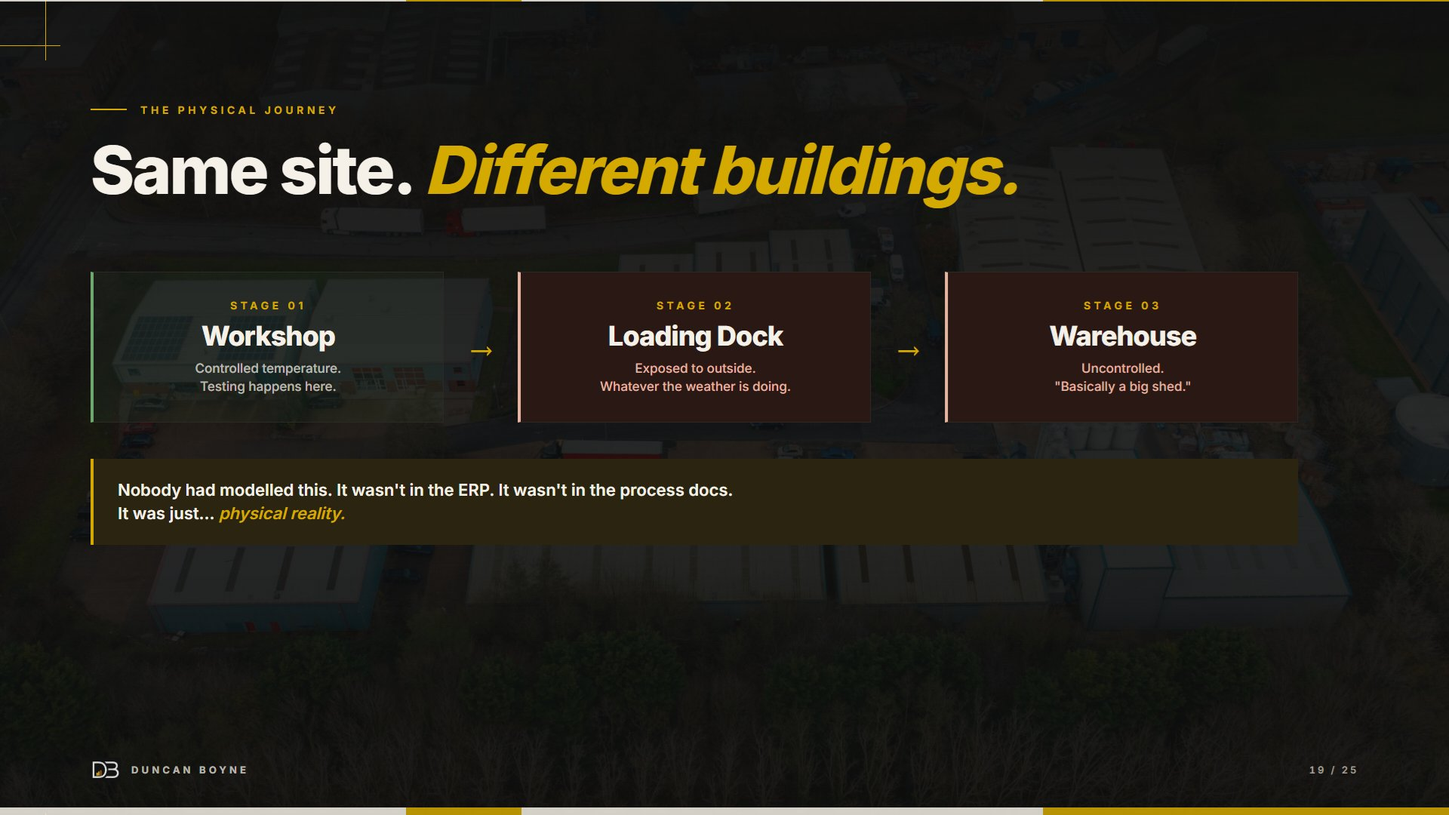
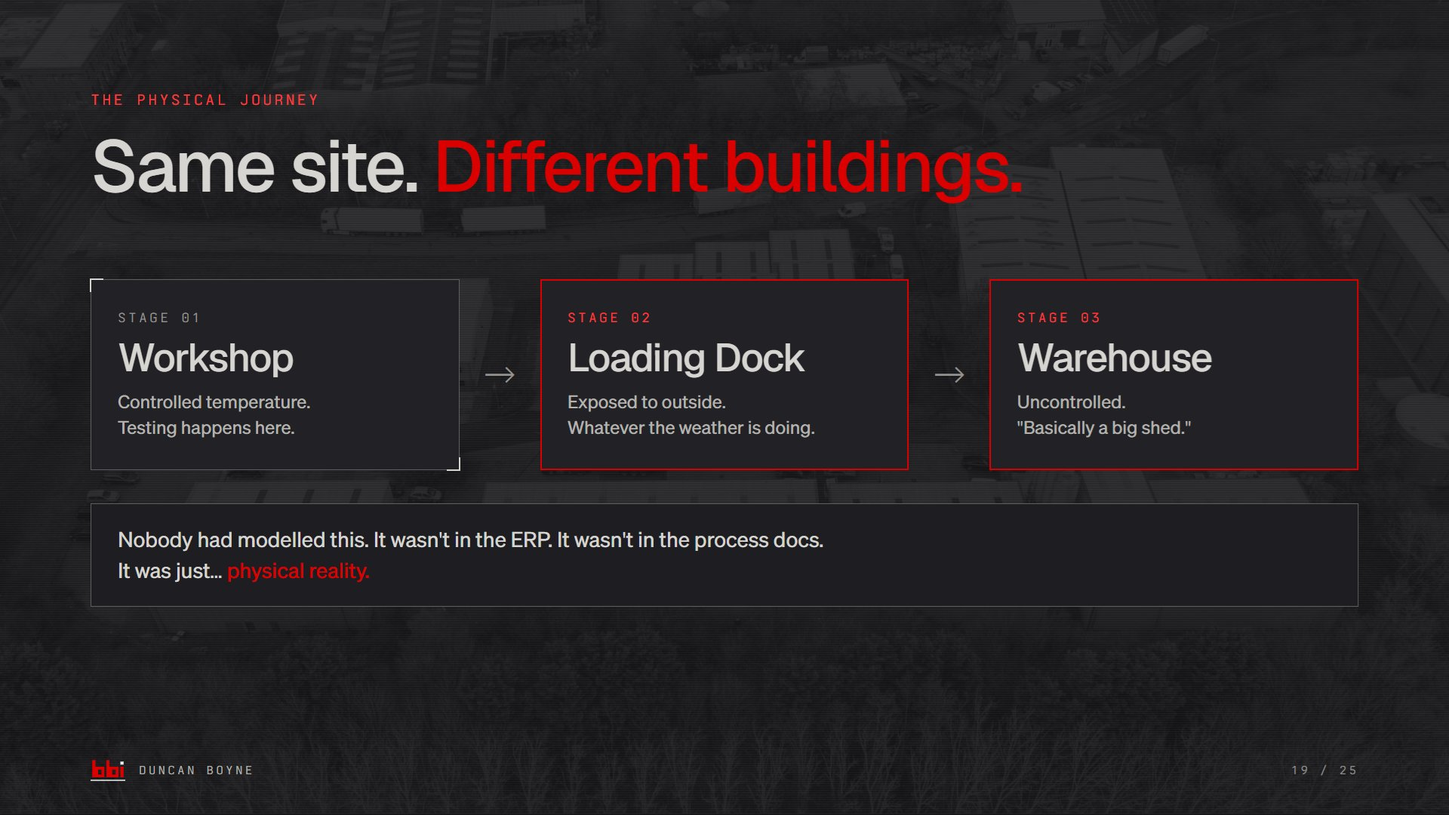
Restyle Can Someone Turn the Heating On? in the site brand
Red/black/white, Geist display, Berkeley Mono labels, Soehne body,
greyscale photos; replaces the retired gold look. Source:
Conference Talk - Can Someone Turn the Heating On/site-brand-2026/.

diff --git a/decks/pbimcr-2026/slides.md b/decks/pbimcr-2026/slides.md
@@ -1,172 +1,172 @@
-<!-- .slide: data-background-image="https://raw.githubusercontent.com/DuncanBoyne/speakingdecks/main/decks/pbimcr-2026/slides/01.jpg" data-background-size="contain" data-background-color="#0E0E0E" -->
+<!-- .slide: data-background-image="https://raw.githubusercontent.com/DuncanBoyne/speakingdecks/main/decks/pbimcr-2026/slides/01.jpg" data-background-size="contain" data-background-color="#161619" -->
 
 Notes:
 Timing: 0:00 – 2:00 Pacing note: Advance to this slide, then hold for 5–8 seconds before speaking. Let them read it. Let the title sit. It's a question — give them a moment to wonder what the question means. Speaker Notes: "So. Someone asked me to give this talk a title before I knew exactly what the talk was going to be. [pause] Which, it turns out, is a fairly good way to summarise the project it's about. [pause] The title comes from something I actually said. Out loud. To a client. During a site visit. And not in a professional capacity. [small laugh expected here — deliver this deadpan, not as a setup to a punchline] I'm going to come back to that. But first — let me give you a bit of context about who I am, and about the project."
 
 ---
 
-<!-- .slide: data-background-image="https://raw.githubusercontent.com/DuncanBoyne/speakingdecks/main/decks/pbimcr-2026/slides/02.jpg" data-background-size="contain" data-background-color="#0E0E0E" -->
+<!-- .slide: data-background-image="https://raw.githubusercontent.com/DuncanBoyne/speakingdecks/main/decks/pbimcr-2026/slides/02.jpg" data-background-size="contain" data-background-color="#161619" -->
 
 Notes:
-Timing: 2:00 – 3:30 Speaker Notes: "I’m Duncan Boyne, I build Power BI solutions — primarily for manufacturing and professional services businesses, but also anywhere someone has data they don't fully understand yet. My job description, as I've come to define it: I'm a storyteller of my customers' data. I take numbers. I find a narrative. I build dashboards that communicate that story clearly to the people who need it. [pause] Which sounds elegant. And often it is. Until the story you thought you were telling turns out to be... not quite the right one. [pause] This is the story of one of those projects."
+Timing: 2:00 – 3:30 Speaker Notes: "I'm [name]. I build Power BI solutions — primarily for manufacturing and professional services businesses, but also anywhere someone has data they don't fully understand yet. My job description, as I've come to define it: I'm a storyteller of my customers' data. I take numbers. I find a narrative. I build dashboards that communicate that story clearly to the people who need it. [pause] Which sounds elegant. And often it is. Until the story you thought you were telling turns out to be... not quite the right one. [pause] This is the story of one of those projects."
 
 ---
 
-<!-- .slide: data-background-image="https://raw.githubusercontent.com/DuncanBoyne/speakingdecks/main/decks/pbimcr-2026/slides/03.jpg" data-background-size="contain" data-background-color="#0E0E0E" -->
+<!-- .slide: data-background-image="https://raw.githubusercontent.com/DuncanBoyne/speakingdecks/main/decks/pbimcr-2026/slides/03.jpg" data-background-size="contain" data-background-color="#161619" -->
 
 Notes:
 Timing: 3:30 – 4:30 Speaker Notes: "The client: a manufacturing company. Precision-engineered components. The kind of parts that go into serious machinery — the type of product where tolerances are measured in micrometres and getting it wrong has real consequences. Smart engineers. Experienced team. Long track record. They'd been doing this for a long time, and they knew what they were doing. The project: build them Power BI reporting. Workshop dashboards. Operational visibility. Production and capacity planning. Classic stuff. Epicor ERP on the backend, some SQL views, a very old custom application that everyone was quietly terrified of. The usual. [pause] And the project was going really well. Data was clean-ish. The integrations were behaving. The dashboards were useful. [beat] In consultancy, this is normally the part just before something interesting happens."
 
 ---
 
-<!-- .slide: data-background-image="https://raw.githubusercontent.com/DuncanBoyne/speakingdecks/main/decks/pbimcr-2026/slides/04.jpg" data-background-size="contain" data-background-color="#0E0E0E" -->
+<!-- .slide: data-background-image="https://raw.githubusercontent.com/DuncanBoyne/speakingdecks/main/decks/pbimcr-2026/slides/04.jpg" data-background-size="contain" data-background-color="#161619" -->
 
 Notes:
 Timing: 4:30 – 5:30 Speaker Notes: "The dashboards we'd built were telling a good story. Production on target. Quality metrics healthy. The operations team had visibility they hadn't had before — and they were actually using it, which is the real metric. [pause] The CEO would walk past the main dashboard in the morning and nod. You know that nod. The 'yes, this is working, the investment was justified' nod. [pause] And then we moved into phase two. Complaints, returns, and refunds reporting. Which, in hindsight, is where the project actually started."
 
 ---
 
-<!-- .slide: data-background-image="https://raw.githubusercontent.com/DuncanBoyne/speakingdecks/main/decks/pbimcr-2026/slides/05.jpg" data-background-size="contain" data-background-color="#0E0E0E" -->
+<!-- .slide: data-background-image="https://raw.githubusercontent.com/DuncanBoyne/speakingdecks/main/decks/pbimcr-2026/slides/05.jpg" data-background-size="contain" data-background-color="#161619" -->
 
 Notes:
 Timing: 5:30 – 6:30 Pacing note: Let the number appear and breathe before speaking. Speaker Notes: "Here's a number. Zero point four percent. That is their internal test failure rate. For precision-engineered components, that is genuinely exceptional. [pause] Roughly four components in every thousand failing QA testing. The engineers were proud of it. Rightfully. It represents years of process refinement and accumulated expertise. [pause] And I remember thinking: yeah. This is a healthy business. The dashboards confirm it. The data confirms it. Everything points in the same direction. So we connected the complaints and returns data — expecting to see roughly the same picture."
 
 ---
 
-<!-- .slide: data-background-image="https://raw.githubusercontent.com/DuncanBoyne/speakingdecks/main/decks/pbimcr-2026/slides/06.jpg" data-background-size="contain" data-background-color="#0E0E0E" -->
+<!-- .slide: data-background-image="https://raw.githubusercontent.com/DuncanBoyne/speakingdecks/main/decks/pbimcr-2026/slides/06.jpg" data-background-size="contain" data-background-color="#161619" -->
 
 Notes:
 Timing: 6:30 – 7:00 Pacing note: Read the slide, then pause. Let the audience sit with it. Speaker Notes: [read the slide, then:] "That's it. That's the whole slide. [pause] Because sometimes the data introduces itself."
 
 ---
 
-<!-- .slide: data-background-image="https://raw.githubusercontent.com/DuncanBoyne/speakingdecks/main/decks/pbimcr-2026/slides/07.jpg" data-background-size="contain" data-background-color="#0E0E0E" -->
+<!-- .slide: data-background-image="https://raw.githubusercontent.com/DuncanBoyne/speakingdecks/main/decks/pbimcr-2026/slides/07.jpg" data-background-size="contain" data-background-color="#161619" -->
 
 Notes:
 Timing: 7:00 – 9:00 Pacing note: Advance to this slide, then hold silence for 3–5 seconds minimum. Do not speak immediately. The number needs to register. Speaker Notes: [silence — let the slide sit] "Up to fifteen percent. [pause] Not average. Maximum. But still. [pause] Customer replacement rate. Components that customers had to replace — either they failed in use, or they didn't perform to the expected specification. [beat] Let me put those two numbers next to each other."
 
 ---
 
-<!-- .slide: data-background-image="https://raw.githubusercontent.com/DuncanBoyne/speakingdecks/main/decks/pbimcr-2026/slides/08.jpg" data-background-size="contain" data-background-color="#0E0E0E" -->
+<!-- .slide: data-background-image="https://raw.githubusercontent.com/DuncanBoyne/speakingdecks/main/decks/pbimcr-2026/slides/08.jpg" data-background-size="contain" data-background-color="#161619" -->
 
 Notes:
 Timing: 9:00 – 10:00 Speaker Notes: "Same company. Same products. Same period. [pause] One says: we're exceptional at quality. The other says: customers are replacing up to one in seven products. [pause] These two things cannot both be completely true and completely fine. Something is being hidden. Or something is being missed. Or both. [pause] So. Before I tell you what we found — I want to know what you would do."
 
 ---
 
-<!-- .slide: data-background-image="https://raw.githubusercontent.com/DuncanBoyne/speakingdecks/main/decks/pbimcr-2026/slides/09.jpg" data-background-size="contain" data-background-color="#0E0E0E" -->
+<!-- .slide: data-background-image="https://raw.githubusercontent.com/DuncanBoyne/speakingdecks/main/decks/pbimcr-2026/slides/09.jpg" data-background-size="contain" data-background-color="#161619" -->
 
 Notes:
 Timing: 10:00 – 12:00 Pacing note: Give the full 2 minutes. Do not rush this. The audience participation is a feature of the talk, not a filler. Genuinely listen to responses. Speaker Notes: "I'm being serious — what would you investigate first? Turn to someone next to you. Sixty seconds. Go. [wait — let room noise happen — move to the edge of the stage, be relaxed] [After ~60 seconds, take 3–4 verbal responses from the room. Engage authentically with each one:] - "That's a really good instinct — yes, we did look at that early on." - "Interesting — why would you go there first?" - "That's actually exactly what we thought initially." - "Oh, that's a route we didn't take until later — flag that, we'll come back to it." [After taking responses:] Right. Let me take you through what we actually looked at. Some of it will overlap with what you said. Some of it was more... methodical. And some of it was fairly desperate."
 
 ---
 
-<!-- .slide: data-background-image="https://raw.githubusercontent.com/DuncanBoyne/speakingdecks/main/decks/pbimcr-2026/slides/10.jpg" data-background-size="contain" data-background-color="#0E0E0E" -->
+<!-- .slide: data-background-image="https://raw.githubusercontent.com/DuncanBoyne/speakingdecks/main/decks/pbimcr-2026/slides/10.jpg" data-background-size="contain" data-background-color="#161619" -->
 
 Notes:
 Timing: 12:00 – 13:00 Speaker Notes: "Alright. Let me take you through the investigation chronologically — because I think the order matters. It tells you something about how these things actually unfold in real life, versus how they get presented retrospectively. The first thing you always check: is the data actually correct? Are systems being measured consistently? Are the return reason codes being used properly? Is there double-counting? Are we comparing like for like? [pause] This is the sensible, methodical, slightly boring thing to check first. And we did check it thoroughly. [pause] The data was fine. Annoyingly fine. Clean joins, consistent definitions, accurate codes. Matched to source systems. Nothing suspicious. [beat] Which, honestly, makes it worse. You want it to be a data quality problem. Those are easy. 'The data was wrong — here's the fix.' Everyone goes home on time. This was not that."
 
 ---
 
-<!-- .slide: data-background-image="https://raw.githubusercontent.com/DuncanBoyne/speakingdecks/main/decks/pbimcr-2026/slides/11.jpg" data-background-size="contain" data-background-color="#0E0E0E" -->
+<!-- .slide: data-background-image="https://raw.githubusercontent.com/DuncanBoyne/speakingdecks/main/decks/pbimcr-2026/slides/11.jpg" data-background-size="contain" data-background-color="#161619" -->
 
 Notes:
 Timing: 13:00 – 14:00 Pacing note: The pause in the middle is intentional — deliver it as a slight deflation. The bracket notation on the slide can stay visible. Speaker Notes: [deliver with dry understatement — not big energy, just flat] "'The data is fine.' That's a sentence that sounds like good news. [pause] When the data is wrong, you fix the data. You know exactly where to look. There's a path forward. When the data is fine and the numbers still don't make sense — you're now in 'existential uncertainty' territory. Which is considerably less comfortable, and involves a lot more coffee."
 
 ---
 
-<!-- .slide: data-background-image="https://raw.githubusercontent.com/DuncanBoyne/speakingdecks/main/decks/pbimcr-2026/slides/12.jpg" data-background-size="contain" data-background-color="#0E0E0E" -->
+<!-- .slide: data-background-image="https://raw.githubusercontent.com/DuncanBoyne/speakingdecks/main/decks/pbimcr-2026/slides/12.jpg" data-background-size="contain" data-background-color="#161619" -->
 
 Notes:
 Timing: 14:00 – 15:30 Speaker Notes: "Next: product lines. Was it specific types of components? A design flaw in a particular product family? And here's where it starts getting interesting. Some product lines were worse than others. But the pattern wasn't clean. It wasn't 'Product B has a structural problem.' It was inconsistent. [pause] Some product lines had high replacement rates — but only sometimes. Not always. And the timing was uneven. [pause] In data terms: we had a pattern. We didn't have a reason. Which is, incidentally, the most dangerous place to be. Because a pattern without a reason is also called a story without evidence. And the temptation to fill that gap with the nearest plausible explanation — without evidence — is how consultancy goes wrong."
 
 ---
 
-<!-- .slide: data-background-image="https://raw.githubusercontent.com/DuncanBoyne/speakingdecks/main/decks/pbimcr-2026/slides/13.jpg" data-background-size="contain" data-background-color="#0E0E0E" -->
+<!-- .slide: data-background-image="https://raw.githubusercontent.com/DuncanBoyne/speakingdecks/main/decks/pbimcr-2026/slides/13.jpg" data-background-size="contain" data-background-color="#161619" -->
 
 Notes:
 Timing: 15:30 – 17:30 Pacing note: Again, genuine engagement. Take responses. Listen. Respond to what you actually hear. Speaker Notes: "You're looking at something seasonal. Irregular. The spikes don't match production cycles, they don't correlate with any internal event anyone can identify. What would you check next? [take 3–4 responses — actively engage with each] [If someone says 'customers':] "Oh — interesting. Why customers? Say more about that." [If someone says 'weather' or 'environment':] "Interesting. What aspect of the environment specifically?" [If someone says 'shipping' or 'logistics':] "Good instinct — keep that thread, we're going to come back to it." [After taking responses:] Right. The word 'customers' has come up — or maybe hasn't. Either way, let me show you what we found when we went there."
 
 ---
 
-<!-- .slide: data-background-image="https://raw.githubusercontent.com/DuncanBoyne/speakingdecks/main/decks/pbimcr-2026/slides/14.jpg" data-background-size="contain" data-background-color="#0E0E0E" -->
+<!-- .slide: data-background-image="https://raw.githubusercontent.com/DuncanBoyne/speakingdecks/main/decks/pbimcr-2026/slides/14.jpg" data-background-size="contain" data-background-color="#161619" -->
 
 Notes:
 Timing: 17:30 – 19:30 Pacing note: Build this slide if possible — show the headline first, then the subtext. The two-part reveal matters. Speaker Notes: "Here it is. [pause] Five customers. Eighty-five percent of production. [pause] Now — on the surface, this is just a business fact. Customer concentration. It's a commercial risk, certainly, but it's not directly a quality issue. Lots of manufacturers have this. Except. [pause] When you have that level of concentration, and those large customers all buy predominantly in spring and autumn... Your aggregate metrics aren't 'company-wide' metrics. They're 'large customer' metrics. And what happens to the small customers — the fifteen percent of output spread across many smaller buyers — is almost completely invisible in your aggregated reporting. [pause] The failure spikes weren't evenly distributed. They were clustering with the smaller customers. Who bought mainly in summer and winter. [pause] The aggregated reporting wasn't wrong. It was accurate. It was just hiding the real story underneath the weight of five large buyers."
 
 ---
 
-<!-- .slide: data-background-image="https://raw.githubusercontent.com/DuncanBoyne/speakingdecks/main/decks/pbimcr-2026/slides/15.jpg" data-background-size="contain" data-background-color="#0E0E0E" -->
+<!-- .slide: data-background-image="https://raw.githubusercontent.com/DuncanBoyne/speakingdecks/main/decks/pbimcr-2026/slides/15.jpg" data-background-size="contain" data-background-color="#161619" -->
 
 Notes:
 Timing: 19:30 – 21:00 Speaker Notes: "This is one of the most underrated problems in data work. The average was correct. I cannot stress this enough — the maths was right. The methodology was sound. But the average was completely useless for understanding what was happening to a subset of customers. [pause] This is a trap that dashboards make worse, not better. Because dashboards make averages look authoritative. A big number, displayed clearly, in an official-looking interface, carries a kind of false credibility. It suggests: this is representative. This is the full picture. [pause] Here, the 'average' was just the large customers. The small customers were statistical background noise. Arithmetically insignificant. Practically very significant. [pause] So now we know something. We know WHO is experiencing the problem. We know roughly WHEN. But we still don't know WHY."
 
 ---
 
-<!-- .slide: data-background-image="https://raw.githubusercontent.com/DuncanBoyne/speakingdecks/main/decks/pbimcr-2026/slides/16.jpg" data-background-size="contain" data-background-color="#0E0E0E" -->
+<!-- .slide: data-background-image="https://raw.githubusercontent.com/DuncanBoyne/speakingdecks/main/decks/pbimcr-2026/slides/16.jpg" data-background-size="contain" data-background-color="#161619" -->
 
 Notes:
 Timing: 21:00 – 23:00 Speaker Notes: "Here's the pattern when you separate it out. Large customers: spring and autumn buyers, predominantly. Consistent, predictable, high volume. They plan their purchases, they order in advance. Small customers: summer and winter buyers. More ad-hoc, lower volume individually, less predictable. And the failure spikes: summer and winter. [pause] So the question is now very specific. What is different about components that are produced and shipped to small customers in summer and winter, versus components produced and shipped to large customers in spring and autumn? [pause] This is the question. Everything else is noise now. If we can answer this question, we understand the problem. [pause] And I remember sitting in a meeting room, looking at this pattern on a screen, and saying — almost to myself — a very obvious question. I'd like your help getting there."
 
 ---
 
-<!-- .slide: data-background-image="https://raw.githubusercontent.com/DuncanBoyne/speakingdecks/main/decks/pbimcr-2026/slides/17.jpg" data-background-size="contain" data-background-color="#0E0E0E" -->
+<!-- .slide: data-background-image="https://raw.githubusercontent.com/DuncanBoyne/speakingdecks/main/decks/pbimcr-2026/slides/17.jpg" data-background-size="contain" data-background-color="#161619" -->
 
 Notes:
 Timing: 23:00 – 25:00 Pacing note: This is the most important audience interaction moment in the talk. Don't rush it. Let the room think. Be comfortable with silence. Speaker Notes: "We know who. We know when. The internal process is consistent — the engineers are doing nothing differently for small customer orders. Same machines, same people, same procedures. What are we missing? [take 3–4 responses from the audience — engage with each one] [If someone says 'environment' or 'storage' or 'warehouse':] "That's really interesting — what makes you go there?" [If someone says 'temperature' or 'climate':] "Oh. Say more about that. What specifically are you thinking?" [If someone says 'shipping' or 'logistics':] "Good — and what aspect of shipping? Because the products are all going through the same shipping provider..." [If nobody is getting close:] "Nobody's mentioned the physical space yet. The actual buildings. Let me tell you why that matters more than it sounds."
 
 ---
 
-<!-- .slide: data-background-image="https://raw.githubusercontent.com/DuncanBoyne/speakingdecks/main/decks/pbimcr-2026/slides/18.jpg" data-background-size="contain" data-background-color="#0E0E0E" -->
+<!-- .slide: data-background-image="https://raw.githubusercontent.com/DuncanBoyne/speakingdecks/main/decks/pbimcr-2026/slides/18.jpg" data-background-size="contain" data-background-color="#161619" -->
 
 Notes:
 Timing: 25:00 – 26:30 Pacing note: Deliver this quietly. Almost as an aside. Not dramatic, not building to something — just conversational and slightly tentative. That's what makes it land. Speaker Notes: "This is the question I actually asked. Not a clever question. Not a technical insight. Not the product of sophisticated analysis. [pause] I just... said it. Because I was running out of obvious places to look, and because the words 'testing' and 'storage' had appeared as separate things in every conversation we'd had — but nobody had ever connected them or questioned whether that separation was relevant. [pause] And there was a pause. One of those pauses where you're not sure if you've said something obvious or something useful. [beat] And then someone said: 'Well... they're in different buildings.'"
 
 ---
 
-<!-- .slide: data-background-image="https://raw.githubusercontent.com/DuncanBoyne/speakingdecks/main/decks/pbimcr-2026/slides/19.jpg" data-background-size="contain" data-background-color="#0E0E0E" -->
+<!-- .slide: data-background-image="https://raw.githubusercontent.com/DuncanBoyne/speakingdecks/main/decks/pbimcr-2026/slides/19.jpg" data-background-size="contain" data-background-color="#161619" -->
 
 Notes:
 Timing: 26:30 – 28:30 Speaker Notes: "The workshop — where all testing happens — is a controlled environment. Temperature regulated. The precision engineering work takes place there. Everything is done properly, carefully, consistently. [pause] The warehouse — where finished components wait before shipping — is in a separate building on the same site. [pause] And between the two: a loading dock. Which is, essentially, just outside. [pause] Products leave the workshop on racks. They go through the loading dock. They sit in the warehouse waiting for collection. In summer: they travel from a cool, controlled environment into heat and humidity. In winter: they travel from a warm, controlled environment into cold. [pause] And the products bound for small customers — lower volume, less predictable demand, less regular collection — sat in that warehouse for longer. Waited more. Were exposed to more temperature variation. [pause] Nobody had modelled this. It wasn't in the ERP data. It wasn't in the process documentation. It was just... physical reality. The building layout. The way the site had always worked."
 
 ---
 
-<!-- .slide: data-background-image="https://raw.githubusercontent.com/DuncanBoyne/speakingdecks/main/decks/pbimcr-2026/slides/20.jpg" data-background-size="contain" data-background-color="#0E0E0E" -->
+<!-- .slide: data-background-image="https://raw.githubusercontent.com/DuncanBoyne/speakingdecks/main/decks/pbimcr-2026/slides/20.jpg" data-background-size="contain" data-background-color="#161619" -->
 
 Notes:
 Timing: 28:30 – 30:30 Speaker Notes: "Here's the theory we arrived at. Components tested at controlled temperature. Then moved through an uncontrolled environment. Then potentially sitting in a warehouse that — it turns out — had no active temperature control at all. It was described, accurately, as 'basically a big shed.' [pause] For precision-engineered components — where tolerances are measured in micrometres — thermal cycling after manufacture can introduce micro-stresses. Dimensional changes. Vulnerabilities that only manifest under use conditions. The components were passing testing. Because at the time of testing, they were fine. [pause] The testing environment and the real-world post-testing conditions were completely different. And because testing happened in one building and storage happened in another, and because this was just how the site had always been laid out, nobody had ever thought to flag the gap as potentially significant. [pause] Now. I want to be very clear about what happens next. Because most case studies would pivot here to: 'And then I solved it heroically, and the numbers dropped to below half a percent, and everyone applauded.' [pause] That's not what I'm going to say."
 
 ---
 
-<!-- .slide: data-background-image="https://raw.githubusercontent.com/DuncanBoyne/speakingdecks/main/decks/pbimcr-2026/slides/21.jpg" data-background-size="contain" data-background-color="#0E0E0E" -->
+<!-- .slide: data-background-image="https://raw.githubusercontent.com/DuncanBoyne/speakingdecks/main/decks/pbimcr-2026/slides/21.jpg" data-background-size="contain" data-background-color="#161619" -->
 
 Notes:
 Timing: 30:30 – 31:30 Pacing note: Pause before advancing to this slide. Let the previous slide's content settle. Then advance to this one slowly and hold for a beat before speaking. Speaker Notes: "The collective sound in the room when we drew this out on the whiteboard was essentially... [click — slide appears] [hold — let the room respond] Yeah. [pause] That sound. That exact sound. Because it's obvious in retrospect. Of course the warehouse temperature matters. Of course it does. Anyone with a reasonable understanding of materials science would look at this and nod. [beat] But nobody had asked. Because everyone inside that organisation had known about the two-building setup for years. It had ceased to be information. It was just the way things were. [pause] The gap between those two buildings was so familiar it had become invisible."
 
 ---
 
-<!-- .slide: data-background-image="https://raw.githubusercontent.com/DuncanBoyne/speakingdecks/main/decks/pbimcr-2026/slides/22.jpg" data-background-size="contain" data-background-color="#0E0E0E" -->
+<!-- .slide: data-background-image="https://raw.githubusercontent.com/DuncanBoyne/speakingdecks/main/decks/pbimcr-2026/slides/22.jpg" data-background-size="contain" data-background-color="#161619" -->
 
 Notes:
 Timing: 32:00 – 35:00 Pacing note: Deliberate tone shift here. The energy comes down. This section is about honesty, not performance. Slow down. Speaker Notes: "I want to be honest with you about something — because I think it's the most important thing in this talk. This wasn't a masterclass in data analysis. I didn't develop a sophisticated model. I didn't write a brilliant DAX query that surfaced the insight. I didn't even formulate a particularly clever hypothesis. [pause] I asked a simple question at the right moment. And the reason I asked it is because I was curious, slightly stuck, and had run out of the obvious things to check. [pause] The engineers in that building were not stupid. They were brilliant. They knew those machines and those products better than I ever would. The dashboards were not wrong. They were accurate reflections of the data they'd been given. [pause] The problem was assumptions. Assumptions that were so deeply embedded in how the organisation operated that they'd stopped being visible as assumptions. They were just facts. Background. The way things are. [pause] 'Testing happens here. Storage happens there.' That's not a problem statement. That's a site layout. Nobody thinks to question it because nobody thinks it needs questioning. [pause] My job, accidentally, became asking whether 'the way things are' was part of the problem. And here's the uncomfortable truth: I only got there because I wandered into a cold warehouse and felt the temperature and said something entirely unprofessional."
 
 ---
 
-<!-- .slide: data-background-image="https://raw.githubusercontent.com/DuncanBoyne/speakingdecks/main/decks/pbimcr-2026/slides/23.jpg" data-background-size="contain" data-background-color="#0E0E0E" -->
+<!-- .slide: data-background-image="https://raw.githubusercontent.com/DuncanBoyne/speakingdecks/main/decks/pbimcr-2026/slides/23.jpg" data-background-size="contain" data-background-color="#161619" -->
 
 Notes:
 Timing: 35:00 – 40:00 Pacing note: Walk through each question with context from the case study. This is the teach section, but keep it grounded in the story — don't let it become a lecture. Speaker Notes: "I've taken five questions from this experience. These aren't ground-breaking. They're not new. But they're the questions I didn't ask early enough — and asking them earlier would have saved weeks of investigation. [pause] One: What happens before this process? Before testing. Where did the components come from? Were there batch variations in materials? Were there upstream process changes that might introduce early vulnerabilities? You're not just looking at the process you've been given — you're looking at its edges. [pause] Two: What happens after it? This is the one that mattered most here. What happens after testing? What is the physical journey before the product reaches the customer? What environment does it pass through? What conditions does it encounter? We'd been given 'the process' and we'd modelled 'the process.' The problem lived outside the process. [pause] Three: Who experiences the problem differently? Not 'who has the problem.' Who experiences it differently. The large and small customers weren't having fundamentally different problems. They were experiencing the same underlying issue at different times, because of how their purchasing patterns interacted with environmental conditions. Segment before you aggregate. Always. [pause] Four: What changes over time? Seasonal patterns are a flag. They often indicate external environmental factors — temperature, daylight, supply cycles, human behaviour patterns. When you see a seasonal spike, the question isn't just 'why in winter' — it's 'what is different about winter?' And 'different' might mean something completely outside the dataset. [pause] Five: What 'obvious' thing has nobody questioned? This is the hardest one. Because by definition, it doesn't feel like a question. It feels like background. It feels like a given. Ask it anyway. Ask it especially when you feel slightly ridiculous for asking it. [pause] The answer to this entire case study lived in question five."
 
 ---
 
-<!-- .slide: data-background-image="https://raw.githubusercontent.com/DuncanBoyne/speakingdecks/main/decks/pbimcr-2026/slides/24.jpg" data-background-size="contain" data-background-color="#0E0E0E" -->
+<!-- .slide: data-background-image="https://raw.githubusercontent.com/DuncanBoyne/speakingdecks/main/decks/pbimcr-2026/slides/24.jpg" data-background-size="contain" data-background-color="#161619" -->
 
 Notes:
 Timing: 40:00 – 43:00 Speaker Notes: "I keep coming back to this phrase: I'm a storyteller of my customers' data. I do believe it. I think it's an accurate description of what good data work actually is. [pause] But here's the thing about storytelling. If you're telling someone else's story, you need to understand the full story. Not just the chapter they've given you access to. Not just the data they thought to record. Not just the process they told you about. [pause] In this case, the data was the internal view of a manufacturing process. Clean, accurate, well-maintained. It told the story of what happened inside the workshop perfectly. But the story had a chapter that didn't exist anywhere in the data. It lived in the physical world. In the gap between two buildings. In the temperature on a loading dock on a February morning. [pause] The lesson isn't 'always go and look at the warehouse.' The lesson is: be curious about the edges of the data. Ask where the story starts. Ask where it ends. Ask who didn't make it into the dataset. Ask what happened before the first row. Ask what happens after the last row. [pause] Your customer will tell you the story they think you need. They'll describe their process, hand over their system access, give you what feels like everything. Your job is to notice when the story has chapters they haven't thought to mention. Because often those chapters are the ones that explain everything else."
 
 ---
 
-<!-- .slide: data-background-image="https://raw.githubusercontent.com/DuncanBoyne/speakingdecks/main/decks/pbimcr-2026/slides/25.jpg" data-background-size="contain" data-background-color="#0E0E0E" -->
+<!-- .slide: data-background-image="https://raw.githubusercontent.com/DuncanBoyne/speakingdecks/main/decks/pbimcr-2026/slides/25.jpg" data-background-size="contain" data-background-color="#161619" -->
 
 Notes:
 Timing: 43:00 – 45:00 Pacing note: Slowest part of the entire talk. Short sentences. Real pauses. This is the landing — don't rush it. Speaker Notes: "Let me come back to the title. 'Can someone turn the heating on.' [pause] I said this during a site visit to that warehouse. I was cold, I was trying to understand the storage conditions for a different reason entirely, and I was genuinely uncomfortable. And someone said: 'It doesn't have heating. It's basically just a big shed.' [pause] And I said: 'Is that... normal? Is that just how warehouses work?' And they said: 'Yeah — it's always been like that.' [pause] And that was the moment. Not an algorithm. Not a DAX query. Not a sophisticated segmentation model. Just: oh. Oh, it's cold in there. [long pause] Every dataset you work with has a version of this. A thing that's just how it's always been. A process step that exists outside the system. A variable that nobody thought to log because it's just... the world. [pause] Your job — our job — is to be the person who asks the dumb question. Who says 'wait, hang on.' Who gets slightly cold on a site visit and turns that discomfort into a question. [pause] Be curious. Be observational. Be willing to look slightly foolish. Ask the question that everyone in the room already knows the answer to. Because sometimes they don't. And sometimes that answer is the whole story. [long pause — look out at the room] Thank you."
